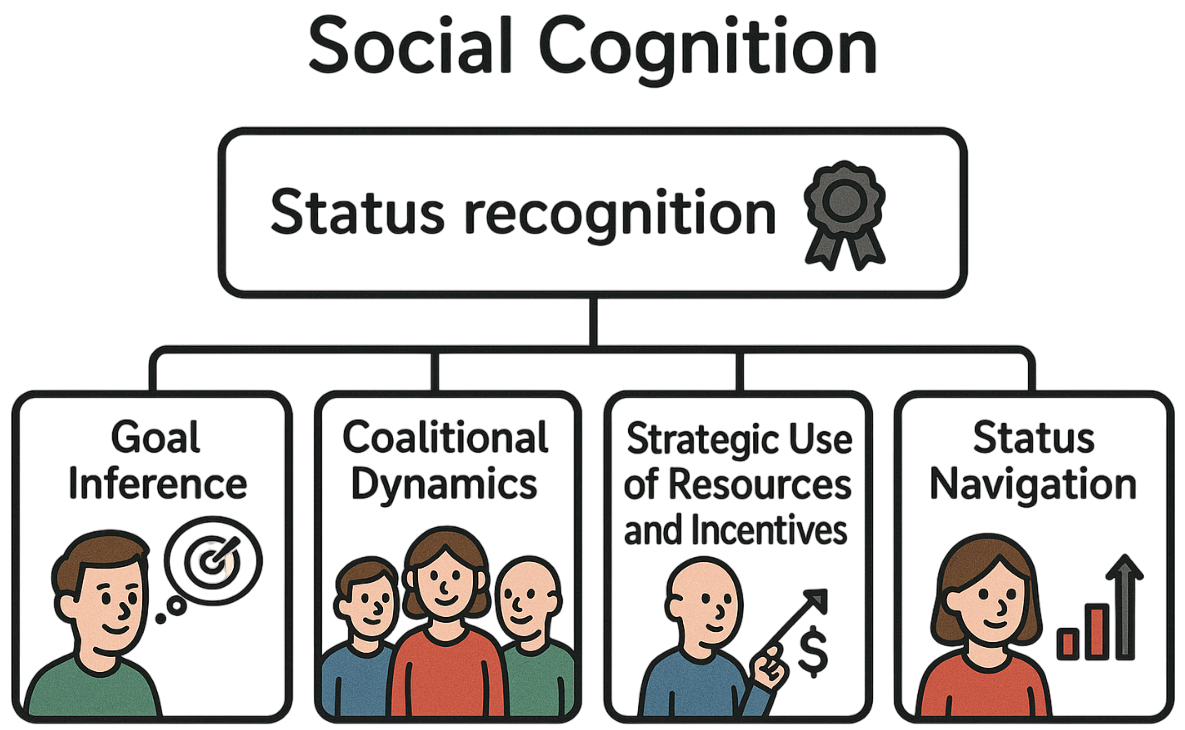
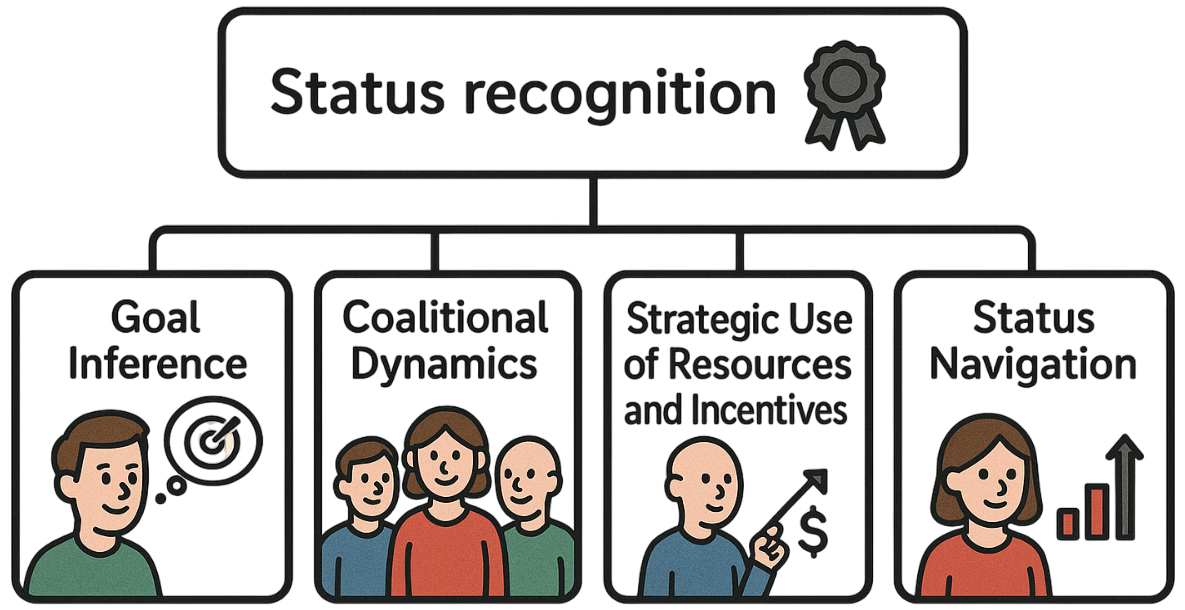
adjust image

Changed region(s): [[0.0, 0.0, 0.9992, 0.9967]]

diff --git a/index.html b/index.html
@@ -327,7 +327,33 @@
       <!-- <div class="columns is-centered has-text-centered" style="margin-bottom: 2rem;"></div> -->
       <div class="columns is-centered has-text-centered" style="overflow: visible;">
         <div class="column is-full" style="overflow: visible;">
-          <h2 class="title is-3" style="margin-bottom: 1.5rem;">Social Cognition as Strategic Power Navigation</h2>
+          <h2 class="title is-3" style="margin-bottom: 1.5rem;">ToM Isn’t Mindreading — It’s Memory in Three Acts
+          </h2>
+          <div style="
+          display: flex;
+          justify-content: center;
+          align-items: center;
+          overflow: visible;
+          margin-top: 2rem;
+          margin-bottom: 2rem;
+        ">
+            <img src="./static/images/ToM_mechanism.png" alt="Core Cognitive Diagram" style="
+              width: auto;
+              max-width: 50%;
+              height: auto;
+              border-radius: 0;
+              display: block;
+            ">
+          </div>
+        </div>
+      </div>
+      <!-- </div>   -->
+
+      <!-- <div class="columns is-centered has-text-centered" style="margin-bottom: 2rem;"></div> -->
+      <div class="columns is-centered has-text-centered" style="overflow: visible;">
+        <div class="column is-full" style="overflow: visible;">
+          <h2 class="title is-3" style="margin-bottom: 1.5rem;">Social Cognition Reframed: Strategic Power Navigation
+          </h2>
           <div style="
           display: flex;
           justify-content: center;
@@ -338,7 +364,7 @@
         ">
             <img src="./static/images/power_social_cog.png" alt="Core Cognitive Diagram" style="
               width: auto;
-              max-width: 100%;
+              max-width: 60%;
               height: auto;
               border-radius: 0;
               display: block;
